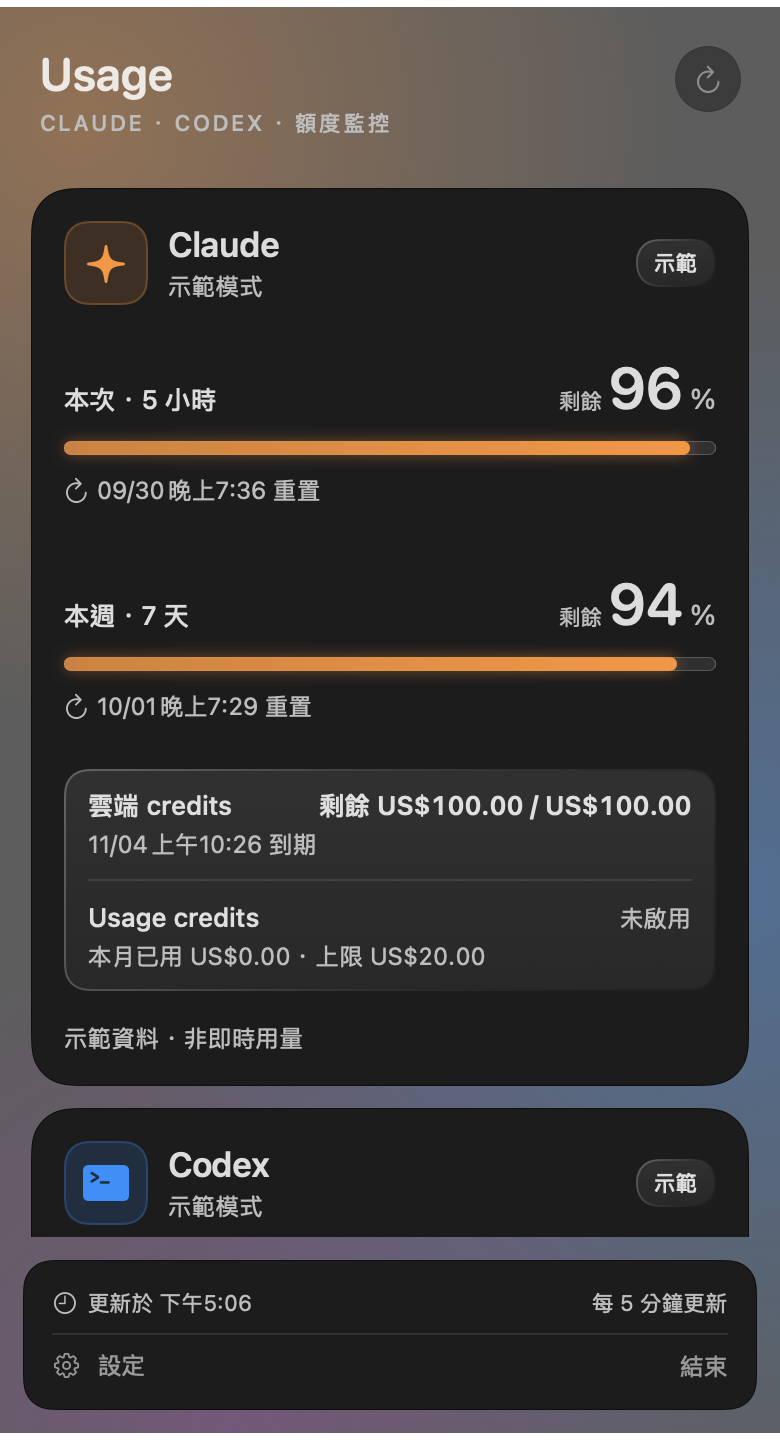
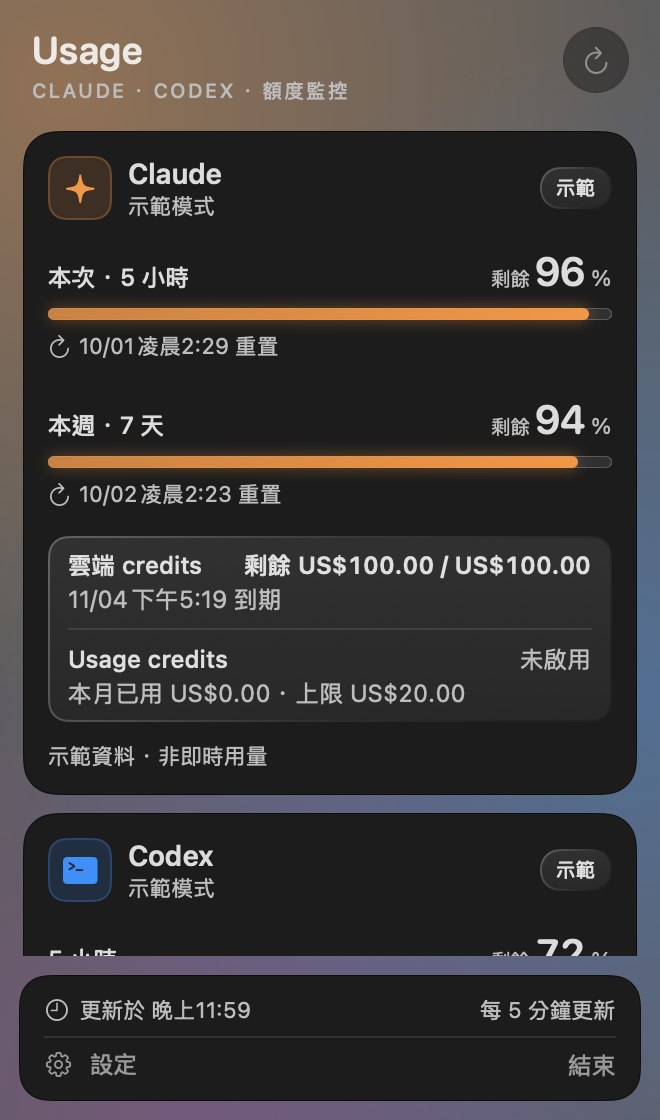
Make the usage panel more compact
Narrow the popover to 330x560 and shrink fonts, the quota percentage and spacing.

diff --git a/Sources/AIUsageBar/Views.swift b/Sources/AIUsageBar/Views.swift
@@ -123,9 +123,9 @@ struct UsagePanel: View {
     var body: some View {
         VStack(alignment: .leading, spacing: 0) {
             HStack(alignment: .top) {
-                VStack(alignment: .leading, spacing: 4) {
-                    Text("Usage").font(.system(size: 23, weight: .semibold, design: .rounded))
-                    Text("CLAUDE · CODEX · 額度監控").font(.system(size: 11, weight: .medium)).tracking(1.2).foregroundStyle(Theme.secondary)
+                VStack(alignment: .leading, spacing: 2) {
+                    Text("Usage").font(.system(size: 19, weight: .semibold, design: .rounded))
+                    Text("CLAUDE · CODEX · 額度監控").font(.system(size: 10, weight: .medium)).tracking(1.0).foregroundStyle(Theme.secondary)
                 }
                 Spacer()
                 Button { store.refresh(force: true) } label: {
@@ -133,13 +133,13 @@ struct UsagePanel: View {
                     else { Image(systemName: "arrow.clockwise").frame(width: 16, height: 16) }
                 }.buttonStyle(GlassButtonStyle()).disabled(store.loading || store.preview)
                     .help("立即更新").accessibilityLabel("立即更新 Claude 與 Codex 額度")
-            }.padding(20)
+            }.padding(.horizontal, 16).padding(.top, 14).padding(.bottom, 10)
             ScrollView {
-                VStack(spacing: 12) {
+                VStack(spacing: 10) {
                     ForEach(Provider.allCases) { ProviderCard(store: store, provider: $0) }
-                }.padding(.horizontal, 16).padding(.vertical, 6)
-            }.frame(maxHeight: 530)
-            VStack(alignment: .leading, spacing: 8) {
+                }.padding(.horizontal, 12).padding(.vertical, 4)
+            }.frame(maxHeight: 420)
+            VStack(alignment: .leading, spacing: 6) {
                 if let date = store.latestCapture {
                     HStack(spacing: 5) {
                         Image(systemName: "clock")
@@ -156,9 +156,9 @@ struct UsagePanel: View {
                     Spacer()
                     Button("結束") { NSApp.terminate(nil) }.keyboardShortcut("q")
                 }.buttonStyle(.borderless).font(.system(size: 12))
-            }.padding(14).glass(cornerRadius: 14, material: nil, elevated: false, liquid: true, clear: true).padding(12)
+            }.padding(.horizontal, 12).padding(.vertical, 10).glass(cornerRadius: 14, material: nil, elevated: false, liquid: true, clear: true).padding(10)
         }
-        .frame(width: 390)
+        .frame(width: 330)
         .background(GlassBackdrop().ignoresSafeArea())
     }
 }
@@ -170,24 +170,24 @@ struct ProviderCard: View {
     var tint: Color { provider == .claude ? .orange : .blue }
     var body: some View {
         let stale = state.stale(maxAge: max(120, store.interval * 2 + 60))
-        VStack(alignment: .leading, spacing: 16) {
-            HStack(spacing: 10) {
+        VStack(alignment: .leading, spacing: 10) {
+            HStack(spacing: 8) {
                 Button { NSWorkspace.shared.open(provider.usageURL) } label: {
-                    Image(systemName: provider == .claude ? "sparkle" : "terminal.fill").font(.system(size: 20)).foregroundStyle(tint).frame(width: 22, height: 22).padding(10).background(tint.opacity(0.16), in: RoundedRectangle(cornerRadius: 12, style: .continuous))
-                        .overlay(RoundedRectangle(cornerRadius: 12, style: .continuous).strokeBorder(tint.opacity(0.25)))
-                        .contentShape(RoundedRectangle(cornerRadius: 12, style: .continuous))
+                    Image(systemName: provider == .claude ? "sparkle" : "terminal.fill").font(.system(size: 15)).foregroundStyle(tint).frame(width: 18, height: 18).padding(7).background(tint.opacity(0.16), in: RoundedRectangle(cornerRadius: 9, style: .continuous))
+                        .overlay(RoundedRectangle(cornerRadius: 9, style: .continuous).strokeBorder(tint.opacity(0.25)))
+                        .contentShape(RoundedRectangle(cornerRadius: 9, style: .continuous))
                 }.buttonStyle(.plain)
                     .onHover { inside in (inside ? NSCursor.pointingHand : NSCursor.arrow).set() }
                     .help("在瀏覽器開啟 \(provider.name) 用量頁面")
                     .accessibilityLabel("開啟 \(provider.name) 用量網頁")
-                VStack(alignment: .leading, spacing: 3) {
-                    Text(provider.name).font(.system(size: 17, weight: .semibold))
-                    Text(store.preview ? "示範模式" : state.snapshot?.plan ?? "訂閱額度").font(.system(size: 12)).foregroundStyle(Theme.secondary)
+                VStack(alignment: .leading, spacing: 1) {
+                    Text(provider.name).font(.system(size: 14, weight: .semibold))
+                    Text(store.preview ? "示範模式" : state.snapshot?.plan ?? "訂閱額度").font(.system(size: 11)).foregroundStyle(Theme.secondary)
                 }
                 Spacer()
                 Text(store.preview ? "示範" : state.loading ? "更新中" : state.failed ? "待連線" : state.snapshot == nil ? "未連接" : "已連接")
-                    .font(.system(size: 11, weight: .medium)).padding(.horizontal, 9).padding(.vertical, 5)
-                    .glass(cornerRadius: 11, material: nil, elevated: false)
+                    .font(.system(size: 10, weight: .medium)).padding(.horizontal, 8).padding(.vertical, 4)
+                    .glass(cornerRadius: 10, material: nil, elevated: false)
             }
             if let snapshot = state.snapshot {
                 ForEach(snapshot.quotas) { quota in
@@ -199,26 +199,26 @@ struct ProviderCard: View {
                             if index > 0 { Divider() }
                             CreditView(credit: credit)
                         }
-                    }.padding(.horizontal, 12).glass(cornerRadius: 12, material: nil, elevated: false)
+                    }.padding(.horizontal, 10).glass(cornerRadius: 10, material: nil, elevated: false)
                 }
                 if stale {
                     Label("上次成功資料 · 目前可能已變動", systemImage: "clock.badge.exclamationmark")
-                        .font(.system(size: 12)).foregroundStyle(Theme.secondary)
+                        .font(.system(size: 11)).foregroundStyle(Theme.secondary)
                 }
             } else {
-                VStack(spacing: 12) {
-                    Image(systemName: state.loading ? "network" : "link.badge.plus").font(.system(size: 30, weight: .light)).foregroundStyle(Theme.secondary)
-                    Text(state.loading ? "正在讀取額度" : "連接你的 \(provider.name)").font(.system(size: 16, weight: .medium))
+                VStack(spacing: 8) {
+                    Image(systemName: state.loading ? "network" : "link.badge.plus").font(.system(size: 24, weight: .light)).foregroundStyle(Theme.secondary)
+                    Text(state.loading ? "正在讀取額度" : "連接你的 \(provider.name)").font(.system(size: 14, weight: .medium))
                     Text("使用本機 \(provider == .claude ? "Claude Code" : "Codex") 的登入狀態\n不需要 API key 或瀏覽器")
-                        .font(.system(size: 13)).foregroundStyle(Theme.secondary).multilineTextAlignment(.center)
-                }.frame(maxWidth: .infinity).padding(.vertical, 25)
+                        .font(.system(size: 12)).foregroundStyle(Theme.secondary).multilineTextAlignment(.center)
+                }.frame(maxWidth: .infinity).padding(.vertical, 14)
             }
             if state.failed || store.preview {
-                Text(state.message).font(.system(size: 12)).foregroundStyle(Theme.secondary).fixedSize(horizontal: false, vertical: true)
+                Text(state.message).font(.system(size: 11)).foregroundStyle(Theme.secondary).fixedSize(horizontal: false, vertical: true)
             }
         }
-        .padding(16)
-        .glass(cornerRadius: 20, material: .ultraThinMaterial, liquid: true)
+        .padding(12)
+        .glass(cornerRadius: 16, material: .ultraThinMaterial, liquid: true)
     }
 }
 
@@ -226,12 +226,12 @@ struct CreditView: View {
     let credit: Credit
     func money(_ value: Double) -> String { value.formatted(.currency(code: credit.currency ?? "USD")) }
     var body: some View {
-        VStack(alignment: .leading, spacing: 4) {
+        VStack(alignment: .leading, spacing: 2) {
             HStack(alignment: .firstTextBaseline) {
-                Text(credit.title).font(.system(size: 13, weight: .medium))
+                Text(credit.title).font(.system(size: 12, weight: .medium))
                 Spacer()
                 if let balance = credit.balance, let limit = credit.limit {
-                    Text("剩餘 \(money(balance)) / \(money(limit))").font(.system(size: 13, weight: .semibold)).monospacedDigit()
+                    Text("剩餘 \(money(balance)) / \(money(limit))").font(.system(size: 12, weight: .semibold)).monospacedDigit()
                 } else if credit.balance == nil, credit.resetsAt == nil {
                     Text(credit.detail).font(.system(size: 12)).foregroundStyle(Theme.secondary)
                 }
@@ -244,7 +244,7 @@ struct CreditView: View {
                     .font(.system(size: 12)).foregroundStyle(Theme.secondary).monospacedDigit()
             }
         }
-        .padding(.vertical, 10)
+        .padding(.vertical, 7)
         .accessibilityElement(children: .combine)
     }
 }
@@ -255,15 +255,15 @@ struct QuotaView: View {
     let tint: Color
     var accent: Color { (quota.remaining ?? 100) <= 10 ? .red : (quota.remaining ?? 100) <= 20 ? .orange : tint }
     var body: some View {
-        VStack(alignment: .leading, spacing: 10) {
+        VStack(alignment: .leading, spacing: 6) {
             HStack(alignment: .firstTextBaseline) {
-                Text(quota.title).font(.system(size: 13, weight: .medium)).fixedSize(horizontal: false, vertical: true)
+                Text(quota.title).font(.system(size: 12, weight: .medium)).fixedSize(horizontal: false, vertical: true)
                 Spacer()
                 if let remaining = quota.remaining {
-                    HStack(alignment: .firstTextBaseline, spacing: 3) {
-                        Text("剩餘").font(.system(size: 11)).foregroundStyle(Theme.secondary)
-                        Text(remaining.formatted(.number.precision(.fractionLength(0...1)))).font(.system(size: 29, weight: .semibold, design: .rounded)).monospacedDigit()
-                        Text("%").font(.system(size: 14)).foregroundStyle(Theme.secondary)
+                    HStack(alignment: .firstTextBaseline, spacing: 2) {
+                        Text("剩餘").font(.system(size: 10)).foregroundStyle(Theme.secondary)
+                        Text(remaining.formatted(.number.precision(.fractionLength(0...1)))).font(.system(size: 20, weight: .semibold, design: .rounded)).monospacedDigit()
+                        Text("%").font(.system(size: 11)).foregroundStyle(Theme.secondary)
                     }
                 } else { Text("未知").foregroundStyle(Theme.secondary) }
             }
@@ -275,7 +275,7 @@ struct QuotaView: View {
                         .frame(width: geometry.size.width * (quota.remaining ?? 0) / 100)
                         .shadow(color: (stale ? Color.gray : accent).opacity(0.45), radius: 4)
                 }
-            }.frame(height: 7)
+            }.frame(height: 6)
                 .accessibilityLabel("\(quota.title)剩餘額度")
                 .accessibilityValue(quota.remaining.map { "\(Int($0))%" } ?? "未知")
             if let reset = quota.resetsAt {
@@ -283,13 +283,13 @@ struct QuotaView: View {
                     HStack(spacing: 4) {
                         Image(systemName: "arrow.clockwise")
                         Text(reset <= context.date ? "重置時間已到 · 等待查詢" : "\(reset.formatted(.dateTime.month(.twoDigits).day(.twoDigits).hour().minute())) 重置")
-                    }.font(.system(size: 12)).foregroundStyle(Theme.secondary)
+                    }.font(.system(size: 11)).foregroundStyle(Theme.secondary)
                 }
-            } else { Text("重置時間尚未提供").font(.system(size: 12)).foregroundStyle(Theme.secondary) }
+            } else { Text("重置時間尚未提供").font(.system(size: 11)).foregroundStyle(Theme.secondary) }
             if let remaining = quota.remaining, remaining <= 20 {
-                Label("額度偏低", systemImage: "exclamationmark.circle").font(.system(size: 12)).foregroundStyle(.primary)
+                Label("額度偏低", systemImage: "exclamationmark.circle").font(.system(size: 11)).foregroundStyle(.primary)
             }
-        }.padding(.vertical, 8)
+        }.padding(.vertical, 4)
     }
 }
 

diff --git a/Sources/AIUsageBar/main.swift b/Sources/AIUsageBar/main.swift
@@ -55,7 +55,7 @@ if let flag = CommandLine.arguments.firstIndex(of: "--render-preview"), flag + 1
         let store = UsageStore(preview: true)
         // --settings renders the settings window at a short height to check that it scrolls
         let settings = CommandLine.arguments.contains("--settings")
-        let size = settings ? NSSize(width: 470, height: 520) : NSSize(width: 390, height: 720)
+        let size = settings ? NSSize(width: 470, height: 520) : NSSize(width: 330, height: 560)
         let panel: AnyView = settings ? AnyView(SettingsPanel(store: store)) : AnyView(UsagePanel(store: store, openSettings: {}))
         let view = panel.environment(\.colorScheme, dark ? .dark : .light).frame(width: size.width, height: size.height)
         let hosting = NSHostingView(rootView: view)
@@ -111,7 +111,7 @@ final class AppDelegate: NSObject, NSApplicationDelegate {
         popover = NSPopover()
         popover.behavior = .transient
         popover.contentViewController = NSHostingController(rootView: UsagePanel(store: store, openSettings: { [weak self] in self?.showSettings() }))
-        popover.contentSize = NSSize(width: 390, height: 720)
+        popover.contentSize = NSSize(width: 330, height: 560)
         if CommandLine.arguments.contains("--preview") || CommandLine.arguments.contains("--window") {
             let controller = NSHostingController(rootView: UsagePanel(store: store, openSettings: { [weak self] in self?.showSettings() }))
             let window = NSWindow(contentViewController: controller)
@@ -120,7 +120,7 @@ final class AppDelegate: NSObject, NSApplicationDelegate {
             window.titlebarAppearsTransparent = true
             window.isOpaque = false
             window.backgroundColor = .clear
-            window.setContentSize(NSSize(width: 390, height: 720))
+            window.setContentSize(NSSize(width: 330, height: 560))
             window.center(); window.makeKeyAndOrderFront(nil)
             NSApp.activate(ignoringOtherApps: true)
             previewWindow = window

diff --git a/design-system/MASTER.md b/design-system/MASTER.md
@@ -2,7 +2,7 @@
 依據：專案的 ui-ux-pro-max skill；已執行兩次 design-system 搜尋與 swiftui accessibility/state 查詢。
 搜尋回傳的 Hero/CTA 網頁布局不適用選單列，因此不採用；以下為平台適配後的一般設計規範，非資料庫確認的專用選單列模板。
 
-- 原生 macOS 選單列 + SwiftUI 面板，寬 390pt；垂直內容，最大高度依螢幕限制。
+- 原生 macOS 選單列 + SwiftUI 面板，寬 330pt；垂直內容，最大高度依螢幕限制。
 - 系統字體與 SF Symbols，數值 monospacedDigit。標題 22pt、服務名 16pt、內文 13pt、附註 12pt。
 - 8/12/16/20pt 間距，卡片圓角 16pt，系統背景／文字語意色彩。Claude 用橘色、Codex 用藍色做裝飾與進度，不作唯一狀態指示；剩餘 ≤20%／10% 時進度條改橘／紅並加文字。
 - 面板：標題 → Claude 卡片（本次、本週、credits 區塊）→ Codex 卡片 → 更新時間與操作。
